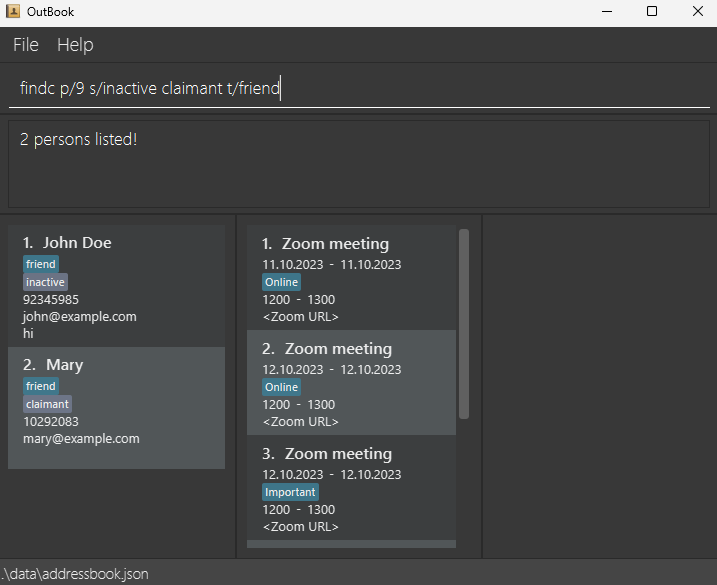
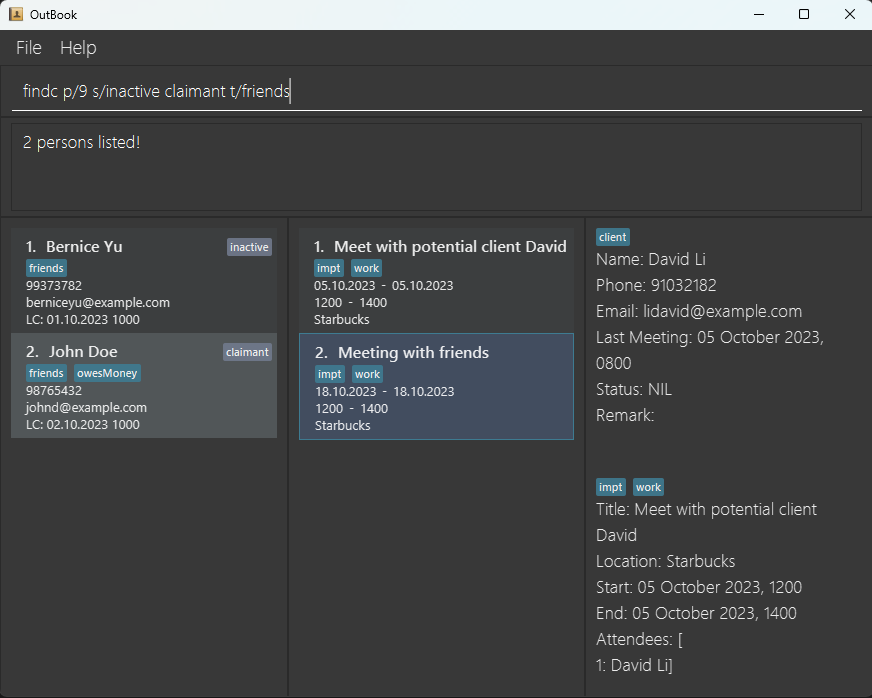
Update UG with up-to-date app screenshots
Fix the image descriptions to match the screenshots
Also to hit the weekly UG update quota

diff --git a/docs/UserGuide.md b/docs/UserGuide.md
@@ -204,7 +204,7 @@ Examples:
 * `findc n/alice` returns `Alice` and `alice tan`
 * `findc p/51` returns `95163890` and `40351`
 * `findc e/_@GMAIL` returns `alice_@gmail.com`
-* `findc p/9 s/inactive claimant t/friend` returns persons with a `9` in their phone number, whose status is either `inactive` or `claimant`, and has a `friend` tag
+* `findc p/9 s/inactive claimant t/friends` returns persons with a `9` in their phone number, whose status is either `inactive` or `claimant`, and has a `friends` tag
   ![result for 'findContact'](images/findContactResult.png)
 
 
@@ -303,14 +303,14 @@ Format: `findm [m/KEYWORDS] [a/KEYWORDS] [t/KEYWORDS] [n/ATTENDEE_NAME] [s/START
     e.g. `m/Shop Meet a/Mall` will return `Meeting: Shop at mall, Location: Mall` but not `Meeting: Meet client, Location: Park`.
 
 Examples:
-* `findm m/project` returns `project` and `Project work`
-* `findm m/zoom meeting` returns `Zoom session`, `Zoom meeting`, `Meeting advisor`
-* `findm s/09.09.2023 0000 e/09.10.2023 0000` returns all meetings between 09.09.2023 0000 and 09.10.2023 0000<br>
-* `findm m/Meeting s/09.09.2023 0000 e/09.10.2023 0000` returns `Zoom meeting`, `Meeting advisor`, if these meetings start after 09.09.2023 0000 and end before 09.10.2023 0000
+* `findm m/project` returns `project` and `Project work`.
+* `findm m/zoom meeting` returns `Zoom session`, `Zoom meeting`, `Meeting advisor`.
+* `findm s/09.09.2023 0000 e/09.10.2023 0000` returns all meetings between 09.09.2023 0000 and 09.10.2023 0000.
+* `findm m/Meeting s/18.10.2023 0000 e/18.10.2023 2359 n/John` returns `Meeting with friends`, as it starts after 18.10.2023 0000 and ends before 18.10.2023 2359, and is attended by John.
 
 <div style="page-break-after: always;"></div>
 
-![result for 'findAlexMeeting'](images/findAlexMeetingResult.png)
+![result for 'findAlexMeeting'](images/findJohnMeetingResult.png)
 
 <div style="page-break-after: always;"></div>
 
